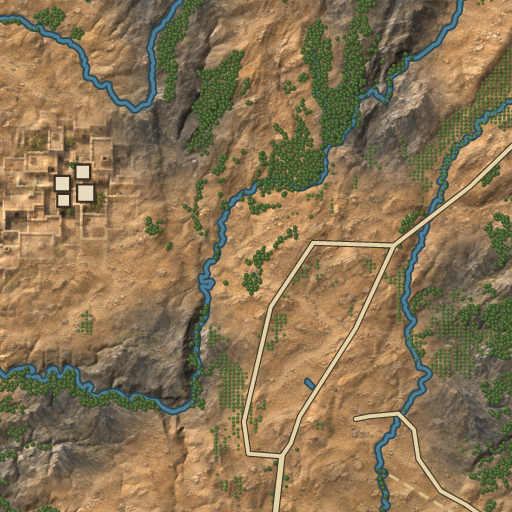
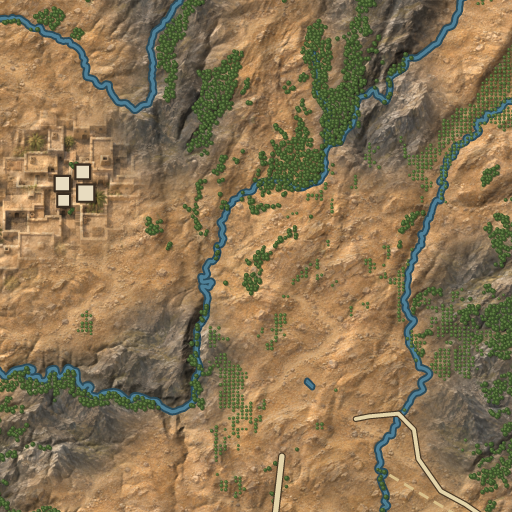
data(golan67): drop unsourced Lebanese roads from the 1967 layer (R-UI-01)

diff --git a/docs/decisions.md b/docs/decisions.md
@@ -4,6 +4,7 @@
 
 | Дата | Правило | Вопрос | Решение |
 | --- | --- | --- | --- |
+| 2026-11-26 | R-UI-01, раздел 14 | Ливанские участки дорог 1967 года | Решение дизайнера: удалить из исторического слоя участки без источника на закрытой территории — «Метула — Кфар-Кила — Марджаюн», «Метула — Хиям», «Марджаюн — Хасбайя». «Баниас — Гаджар — граница Ливана» остаётся: у него есть источник (лист 1958 года), и он идёт до границы. `mapgen roads --use historical` убрал 5 сторон с дорогой и 1 мост — все в закрытых ливанских гексах, так что правила не меняются. Итого 108 сторон с дорогой, 8 с грунтовкой, 7 мостов; тайлы запечены заново |
 | 2026-11-26 | R-UI-04 | Названия соединений в окне атаки | Решение дизайнера: название соединения берётся из данных сценария, класс юнита показывается, только если названия нет. У юнита в `scenario.json` необязательное поле `name` — ключ локализации `formation.*`; ядро передаёт его в состояние и в правилах не использует. Название идёт в заголовок карточки, в списки штабов и целей и в «В гексе»; в подзаголовке вместо «штаб ★7» стоит название штаба. Подзаголовок однострочный с многоточием, полный текст — в подсказке. «Голаны-67»: названия реальных соединений по S. Dunstan, «The Six Day War 1967: Jordan and Syria» (Osprey, 2009), через список составов сторон в английской Википедии. Израиль: 8-я, 37-я, 45-я бронетанковые бригады, 1-я пехотная «Голани», 55-я парашютно-десантная, «Штаб Северного округа». Сирия: 11-я, 8-я, 19-я пехотные, 44-я бронетанковая. Привязка названий к позициям условная, как и сами составы сценария: источник не даёт расстановки на 9–10 июня. У сирийской артиллерии и сирийского штаба названий нет (источник их не называет). Имён командиров нет (AGENTS.md) |
 | 2026-11-26 | R-UI-04 | Сколько висят уведомления | Решение дизайнера: уведомления вроде «Партия сохранена» исчезают через 2,5 с. Толкование: сообщения событий сценария (текст для чтения) держатся 7 с, как раньше; они же остаются во вкладке «Отчёты». Уведомление стоит под вкладками, не на них |
 | 2026-11-26 | R-UI-02 | Камера: вписать карту, ограничить панораму, фон | Решение дизайнера: на старте карта вписывается в свободную от HUD область и центрируется. Свободная область — экран минус верхняя панель с вкладками, столбец кнопок справа, панель действий и нижнее окно; отступы измеряются на странице и пересчитываются при изменении размера окна. Панорама ограничена: карта больше области не оставляет пустого края, карта меньше области не выходит за неё. Зум остаётся в прежних пределах (0,25–3). Фон под картой — тёмная ткань (мелкое плетение) с виньеткой (CSS), холст Pixi прозрачный. В редакторе карты панорама не ограничена |

diff --git a/docs/reports/2026-11-26-roads-1967.md b/docs/reports/2026-11-26-roads-1967.md
@@ -84,4 +84,4 @@
 
 ## Что проверить
 
-- **Ливанские участки (№ 20–22)** — предположения. В «Голанах-67» Ливан — нейтральная территория, так что на правила они не влияют.
+- **Ливанские участки (№ 20–22)** удалены из слоя 2026-11-26 по решению дизайнера: у них не было источника, а территория закрыта. Участок № 19 до границы Ливана остался (источник — лист 1958 года). После удаления на карте 108 сторон с дорогой, 8 с грунтовкой и 7 мостов; тайлы запечены заново.
